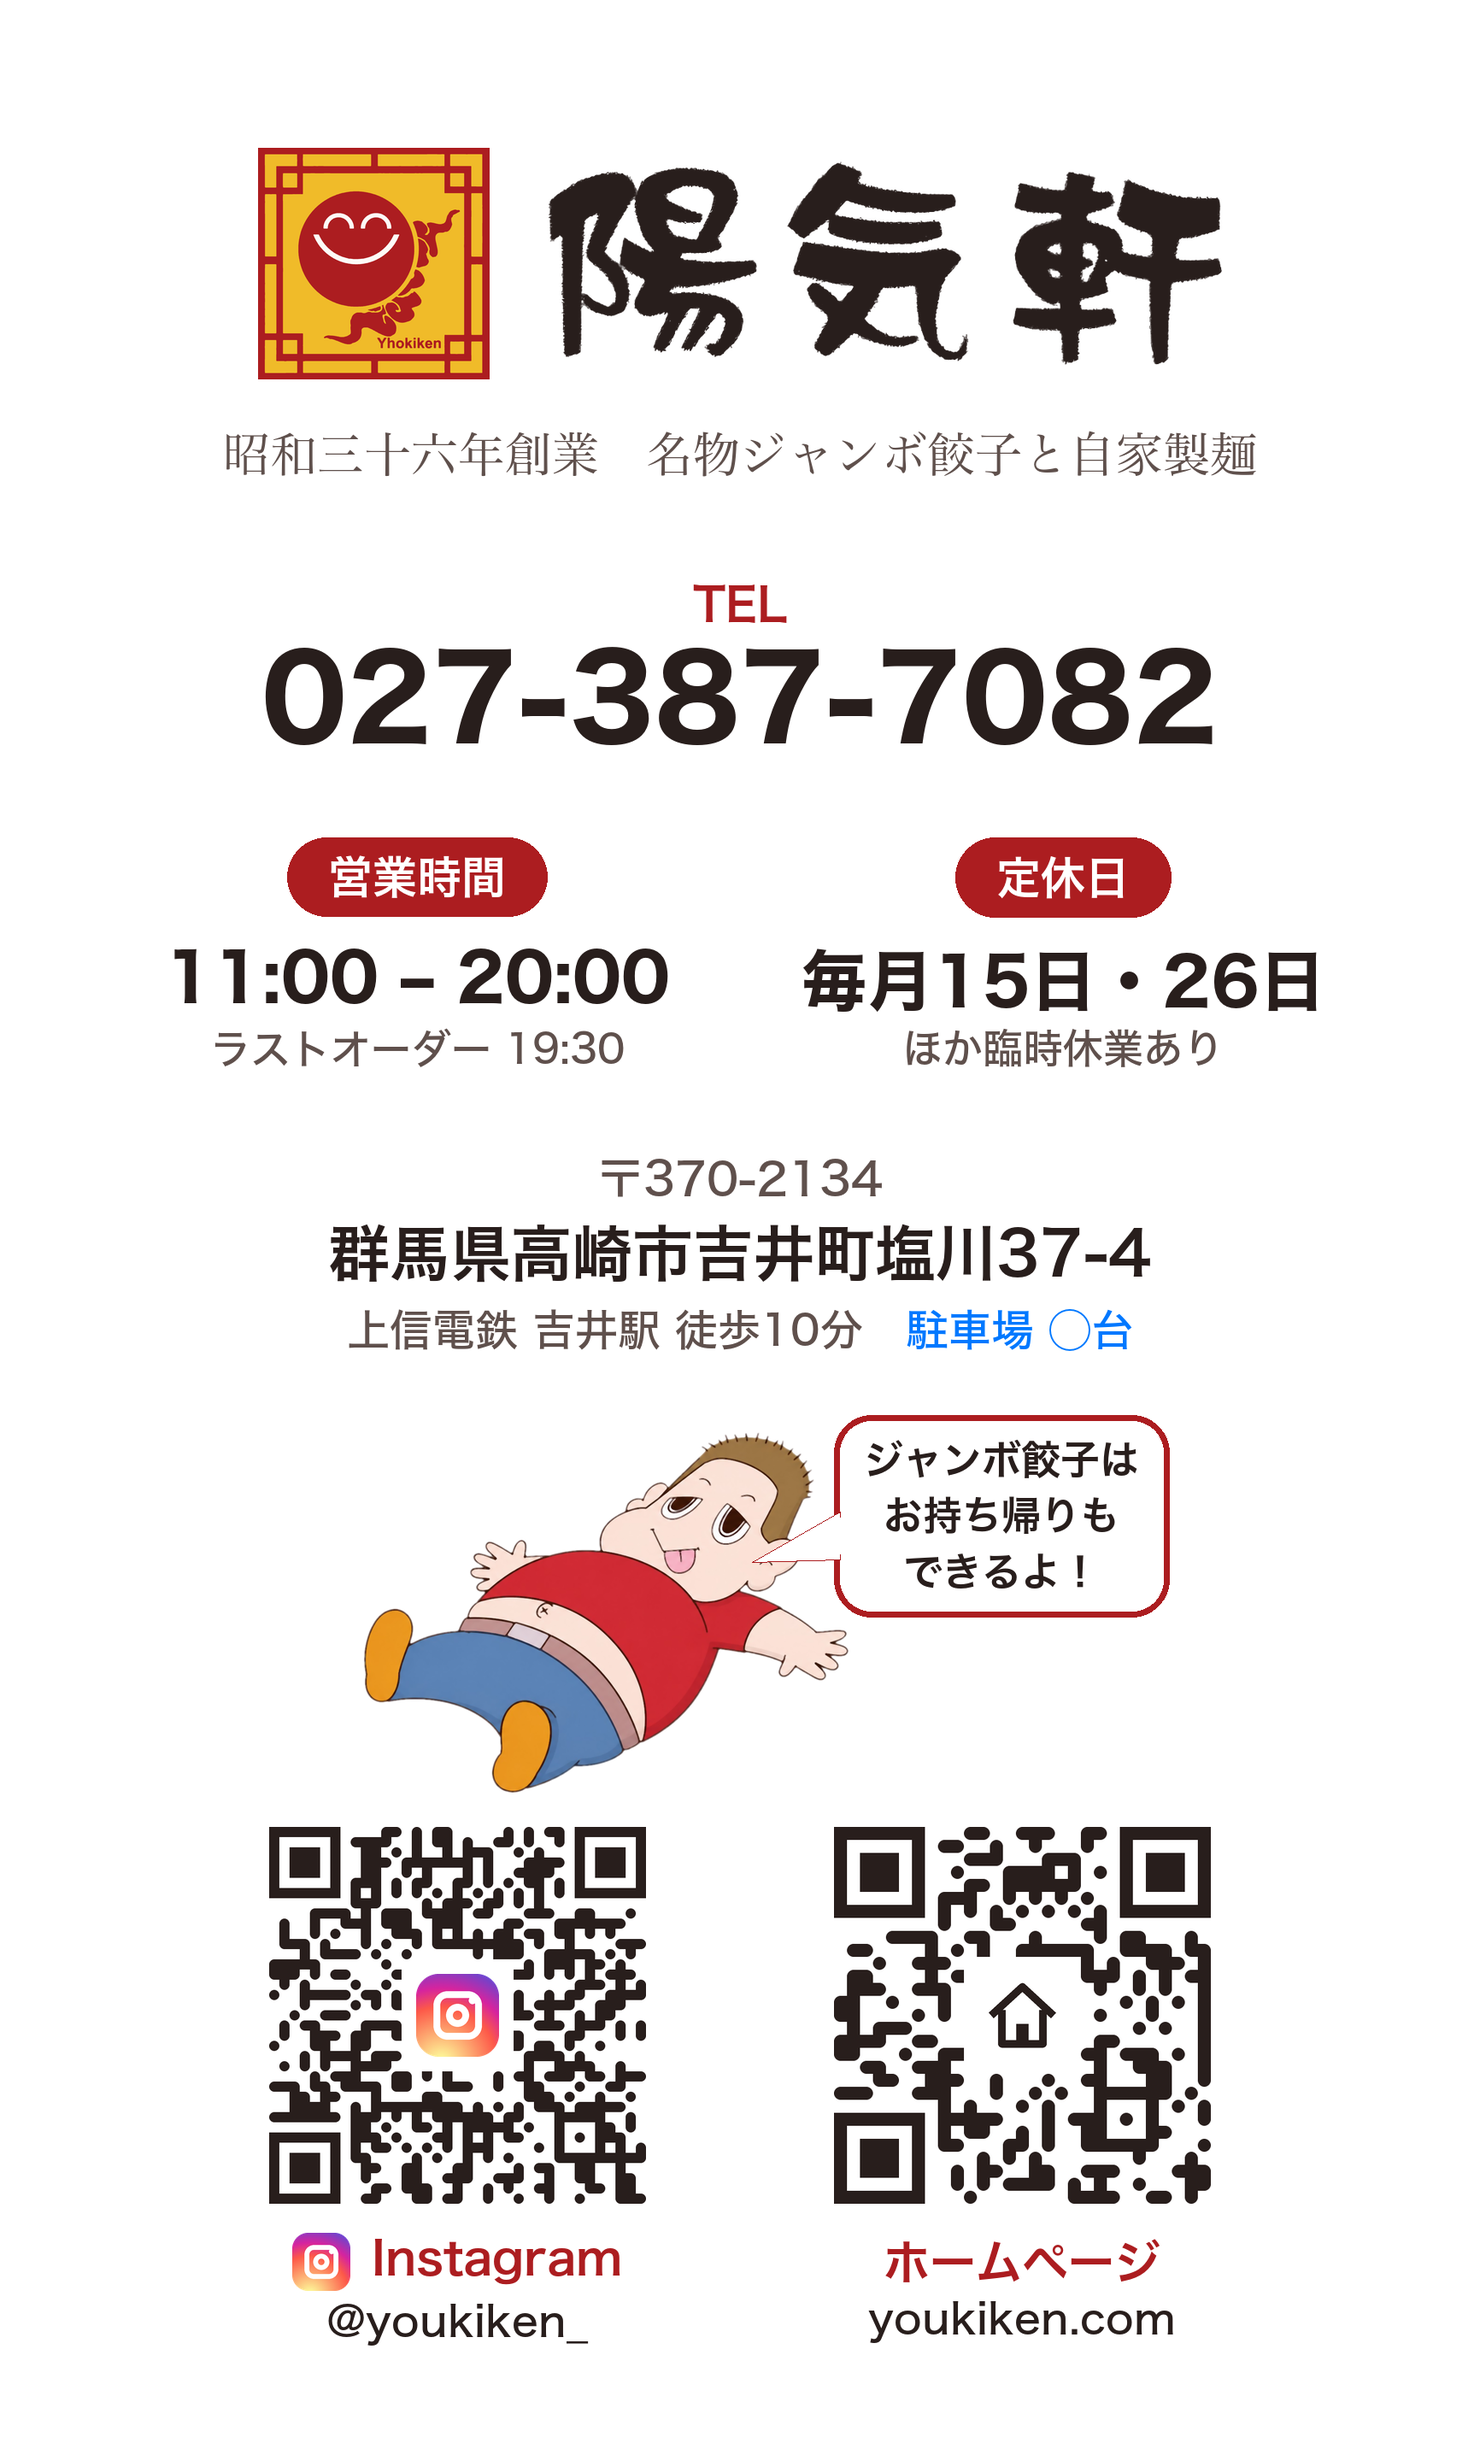
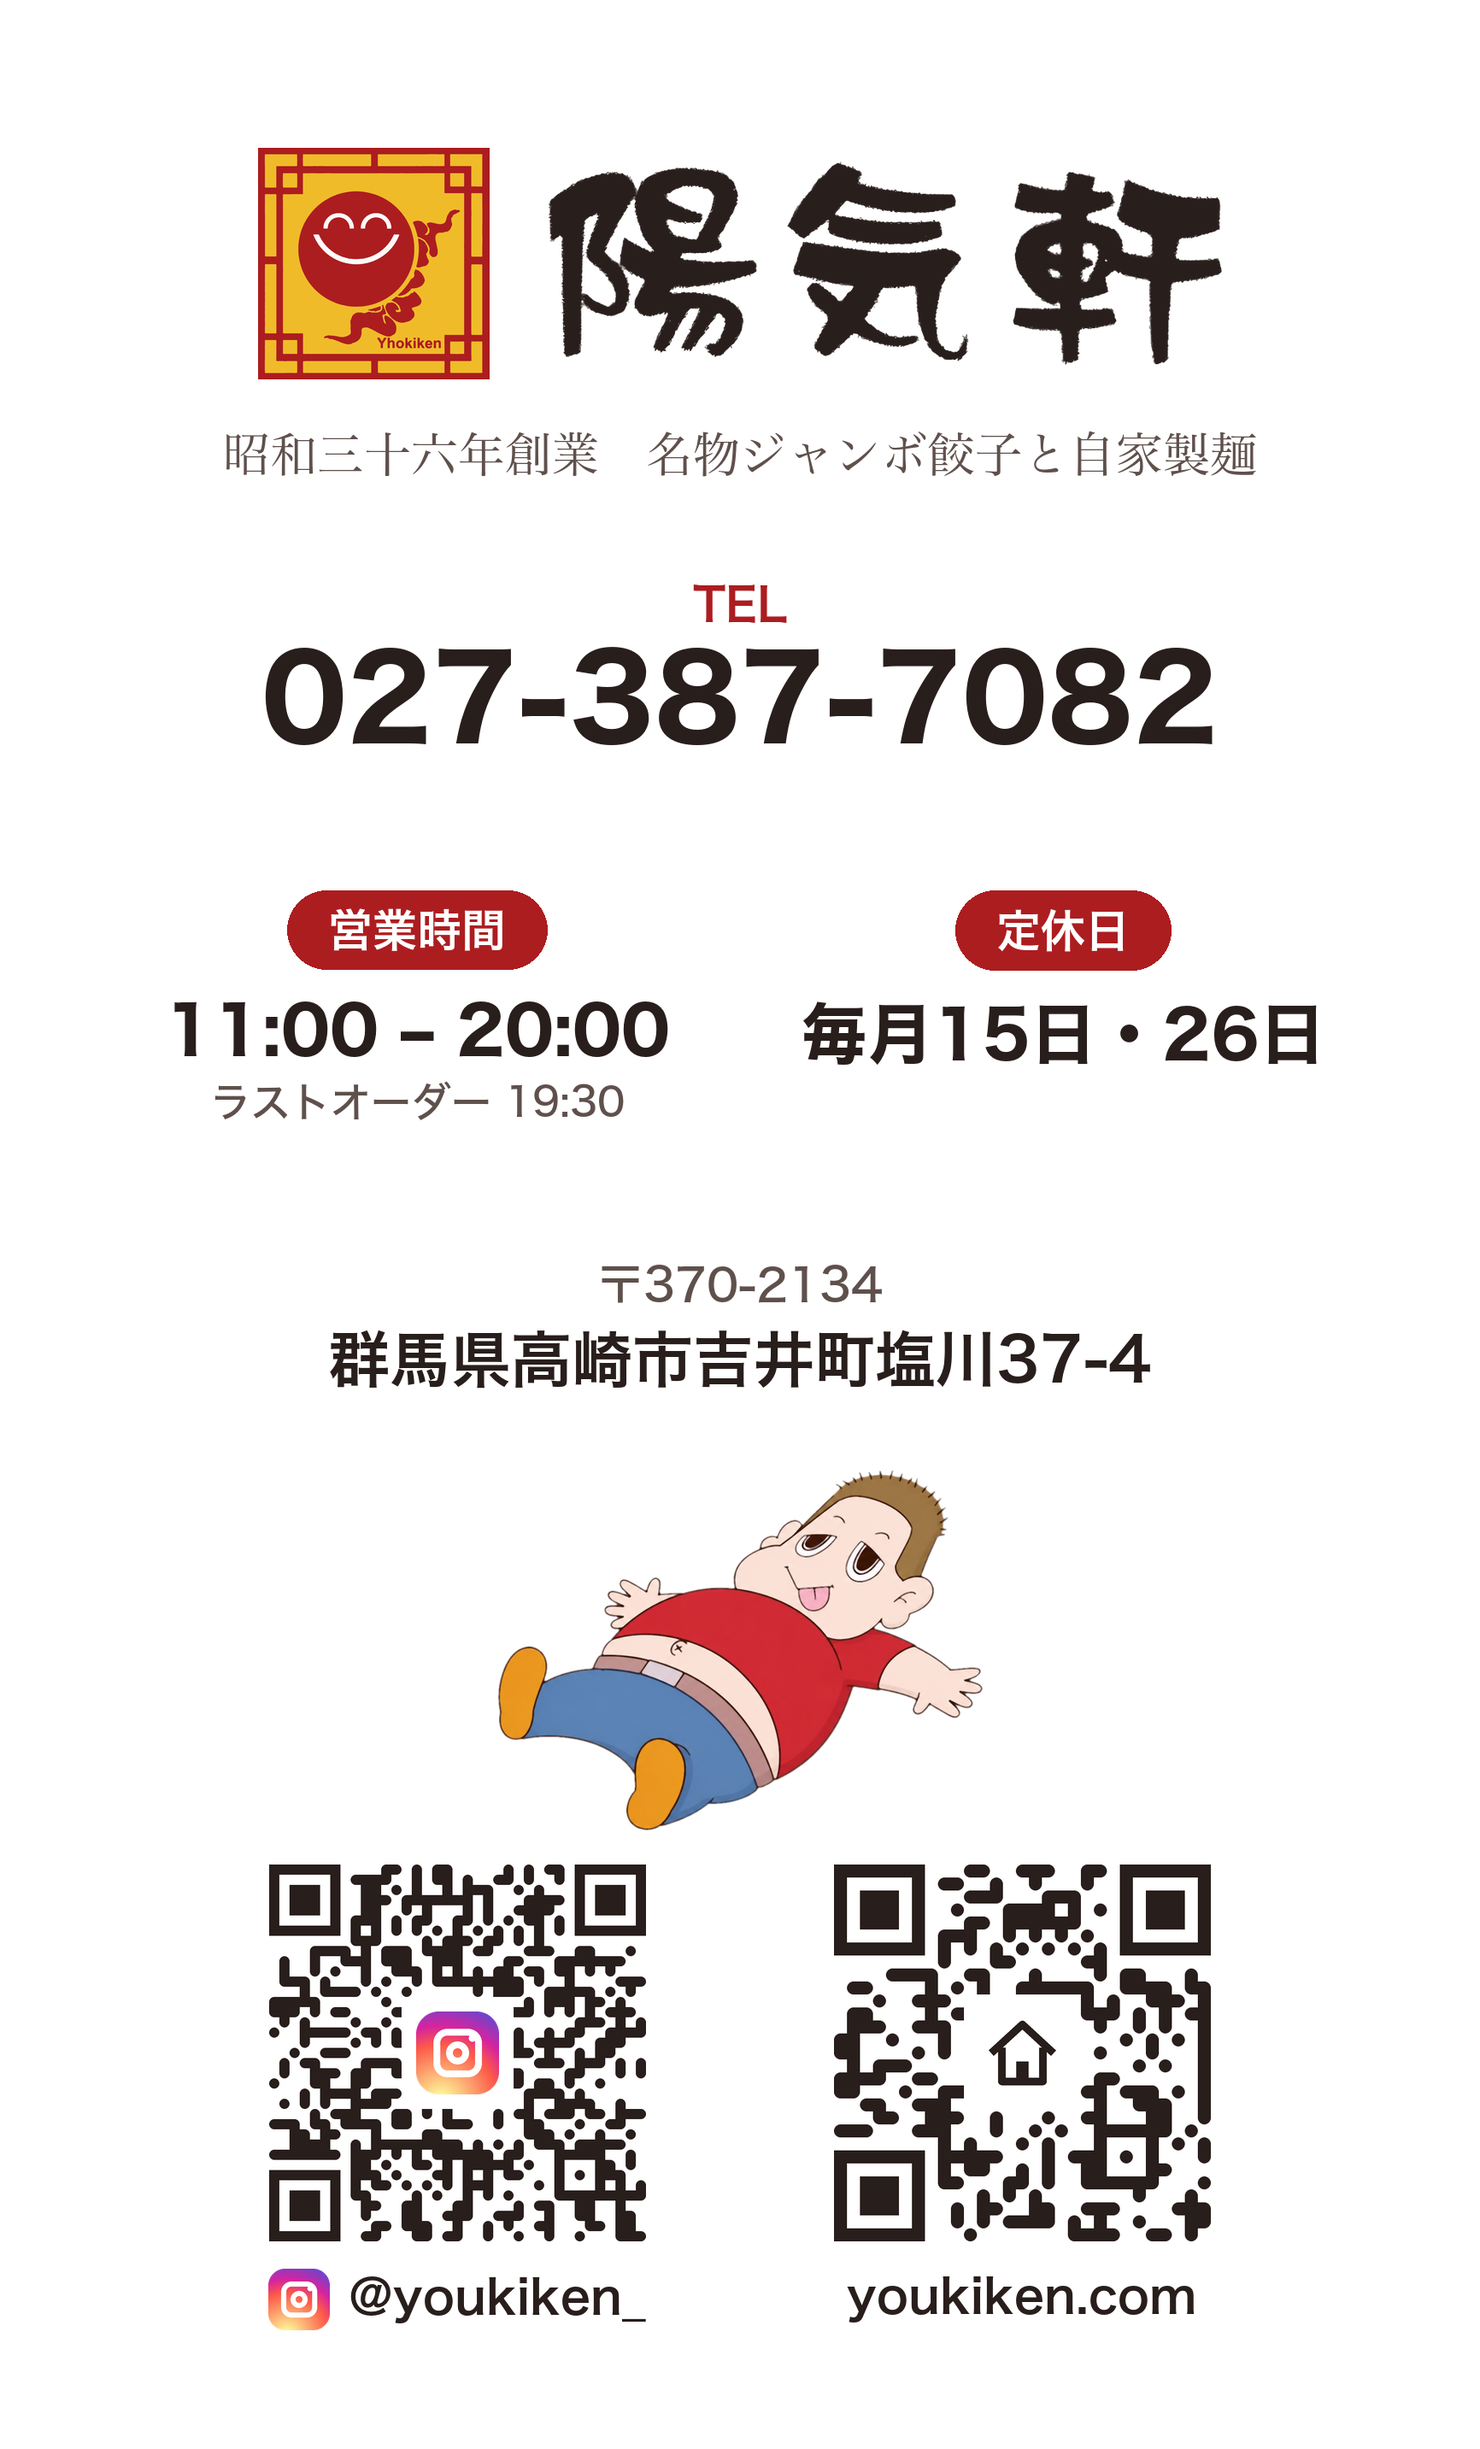
fix: 裏面の情報を絞ってすっきりさせる
- 吹き出し、行き方・駐車場の行、「ほか臨時休業あり」を外した
- QRの下のラベルを1行(アイコン+@youkiken_ / youkiken.com)に
- 行き方・駐車場・吹き出しは build_back_v2.py 冒頭の設定で戻せるようにした(既定は描かない)

Changed region(s): [[0.1247, 0.3416, 0.8106, 0.9627], [0.5612, 0.7453, 0.8418, 0.9627], [0.53, 0.3416, 0.9042, 0.4348]]

diff --git a/youkiken/shopcard/build_back_v2.py b/youkiken/shopcard/build_back_v2.py
@@ -37,12 +37,12 @@ MINCHO = "/System/Library/Fonts/ヒラギノ明朝 ProN.ttc"
 INSTA_URL = "https://www.instagram.com/youkiken_"
 HP_URL = "https://youkiken.com/"
 
-# ---- お店に確認中の文言(仮置き) ----
-# 「◯」を含む部分は青字で描き、残っていれば警告を出す。確定したらここを書き換える
+# ---- お店に確認中の文言 ----
+# None にすると描かない。「◯」を含む部分は青字で描き、残っていれば警告を出す
 SUBTITLE = "昭和三十六年創業　名物ジャンボ餃子と自家製麺"
-ACCESS = "上信電鉄 吉井駅 徒歩10分"
-PARKING = "駐車場 ◯台"
-BUBBLE = ("ジャンボ餃子は", "お持ち帰りも", "できるよ！")
+ACCESS = None     # 例: "上信電鉄 吉井駅 徒歩10分"
+PARKING = None    # 例: "駐車場 ◯台"
+BUBBLE = None     # 例: ("ジャンボ餃子は", "お持ち帰りも", "できるよ！")
 TBD = "◯"
 TBD_COLOR = (0, 120, 255)
 
@@ -206,7 +206,7 @@ def build(variant):
 
     # ---- 下から: QR 2つ、その上にキャラ ----
     qr_size = mm(14.0)
-    qr_top = bottom - mm(4.6) - qr_size
+    qr_top = bottom - mm(3.2) - qr_size
     chara_h = mm(13.5) if with_chara else 0
     chara_top = qr_top - mm(1.2) - chara_h
 
@@ -228,17 +228,19 @@ def build(variant):
         a = text_center(d, cx - col_off, yy + h, "11:00 – 20:00", gothic(7, mm(2.45)), fg)
         text_center(d, cx + col_off, yy + h, "毎月15日・26日", gothic(7, mm(2.45)), fg)
         h += a + mm(0.9)
-        b = text_center(d, cx - col_off, yy + h, "ラストオーダー 19:30", gothic(5, mm(1.5)), sub)
-        text_center(d, cx + col_off, yy + h, "ほか臨時休業あり", gothic(5, mm(1.5)), sub)
-        return h + b
+        return h + text_center(d, cx - col_off, yy + h, "ラストオーダー 19:30", gothic(5, mm(1.5)), sub)
 
     def address(d, yy):
         h = text_center(d, cx, yy, "〒370-2134", gothic(5, mm(1.7)), sub)
         h += mm(1.0)
         h += text_center(d, cx, yy + h, "群馬県高崎市吉井町塩川37-4", gothic(6, mm(2.25)), fg)
-        h += mm(1.0)
-        h += text_center_parts(d, cx, yy + h, [(ACCESS, tbd_color(ACCESS, sub)), ("　", sub),
-                                               (PARKING, tbd_color(PARKING, sub))], gothic(5, mm(1.6)))
+        extra = [t for t in (ACCESS, PARKING) if t]
+        if extra:
+            parts = []
+            for t in extra:
+                parts += [(t, tbd_color(t, sub)), ("　", sub)]
+            h += mm(1.0)
+            h += text_center_parts(d, cx, yy + h, parts[:-1], gothic(5, mm(1.6)))
         return h
 
     blocks = [tel, hours_closed, address]
@@ -256,36 +258,35 @@ def build(variant):
     if with_chara:
         boy = Image.open(CHARA).convert("RGBA")
         boy = boy.resize((round(boy.width * chara_h / boy.height), chara_h), Image.LANCZOS)
-        bx = cx - mm(5.0) - boy.width // 2
+        bx = cx - (mm(5.0) if BUBBLE else 0) - boy.width // 2
         card.paste(boy, (bx, chara_top), boy)
-        # 吹き出しは頭の右に置き、尻尾を口元へ向ける
-        tip = (bx + boy.width * 0.80, chara_top + chara_h * 0.36)
-        bub_x = bx + round(boy.width * 0.90) + mm(1.2)
-        bw, _ = speech_bubble(draw, bub_x, chara_top - mm(0.6), BUBBLE, gothic(6, mm(1.45)), tip, RED, WHITE)
-        if bub_x + bw > CW - mm(3.5):
-            raise SystemExit("吹き出しがカードの端にかかります")
+        if BUBBLE:
+            # 吹き出しは頭の右に置き、尻尾を口元へ向ける
+            tip = (bx + boy.width * 0.80, chara_top + chara_h * 0.36)
+            bub_x = bx + round(boy.width * 0.90) + mm(1.2)
+            bw, _ = speech_bubble(draw, bub_x, chara_top - mm(0.6), BUBBLE, gothic(6, mm(1.45)), tip, RED, WHITE)
+            if bub_x + bw > CW - mm(3.5):
+                raise SystemExit("吹き出しがカードの端にかかります")
 
     col_gap = mm(7.0)
     lx = cx - col_gap // 2 - qr_size
     rx = cx + col_gap // 2
-    for x, url, icon, name, handle in ((lx, INSTA_URL, icon_instagram_color, "Instagram", "@youkiken_"),
-                                       (rx, HP_URL, icon_home, "ホームページ", "youkiken.com")):
+    f = gothic(6, mm(1.75))
+    for x, url, icon, label in ((lx, INSTA_URL, icon_instagram_color, "@youkiken_"),
+                                (rx, HP_URL, icon_home, "youkiken.com")):
         card.paste(make_qr(url, qr_size, QR_COLOR, icon), (x, qr_top))
         ly = qr_top + qr_size + mm(1.3)
         qcx = x + qr_size // 2
-        f = gothic(6, mm(1.7))
         if icon is icon_instagram_color:
-            b = draw.textbbox((0, 0), name, font=f)
+            b = draw.textbbox((0, 0), label, font=f)
             tw, th = b[2] - b[0], b[3] - b[1]
-            isz, igap = round(th * 1.25), mm(0.8)
+            isz, igap = round(th * 1.3), mm(0.7)
             x0 = qcx - (isz + igap + tw) // 2
             ig = icon_instagram_color(isz)
             card.paste(ig, (x0, ly + (th - isz) // 2), ig)
-            draw.text((x0 + isz + igap - b[0], ly - b[1]), name, font=f, fill=RED)
-            h = th
+            draw.text((x0 + isz + igap - b[0], ly - b[1]), label, font=f, fill=fg)
         else:
-            h = text_center(draw, qcx, ly, name, f, RED)
-        text_center(draw, qcx, ly + h + mm(0.7), handle, gothic(5, mm(1.6)), fg)
+            text_center(draw, qcx, ly, label, f, fg)
 
     out = HERE / f"back_v2_{variant}.png"
     card.save(out, dpi=(DPI, DPI))
@@ -294,7 +295,7 @@ def build(variant):
     padded.paste(card, (bleed, bleed))
     padded.save(HERE / f"back_v2_{variant}_bleed3mm.png", dpi=(DPI, DPI))
     print("saved", out.name, f"(行間 {step / DPMM:.1f}mm)")
-    pending = [t for t in (SUBTITLE, ACCESS, PARKING, *BUBBLE) if TBD in t]
+    pending = [t for t in (SUBTITLE, ACCESS, PARKING, *(BUBBLE or ())) if t and TBD in t]
     if pending:
         print("※ 仮置きが残っています(青字):", " / ".join(pending))
 
